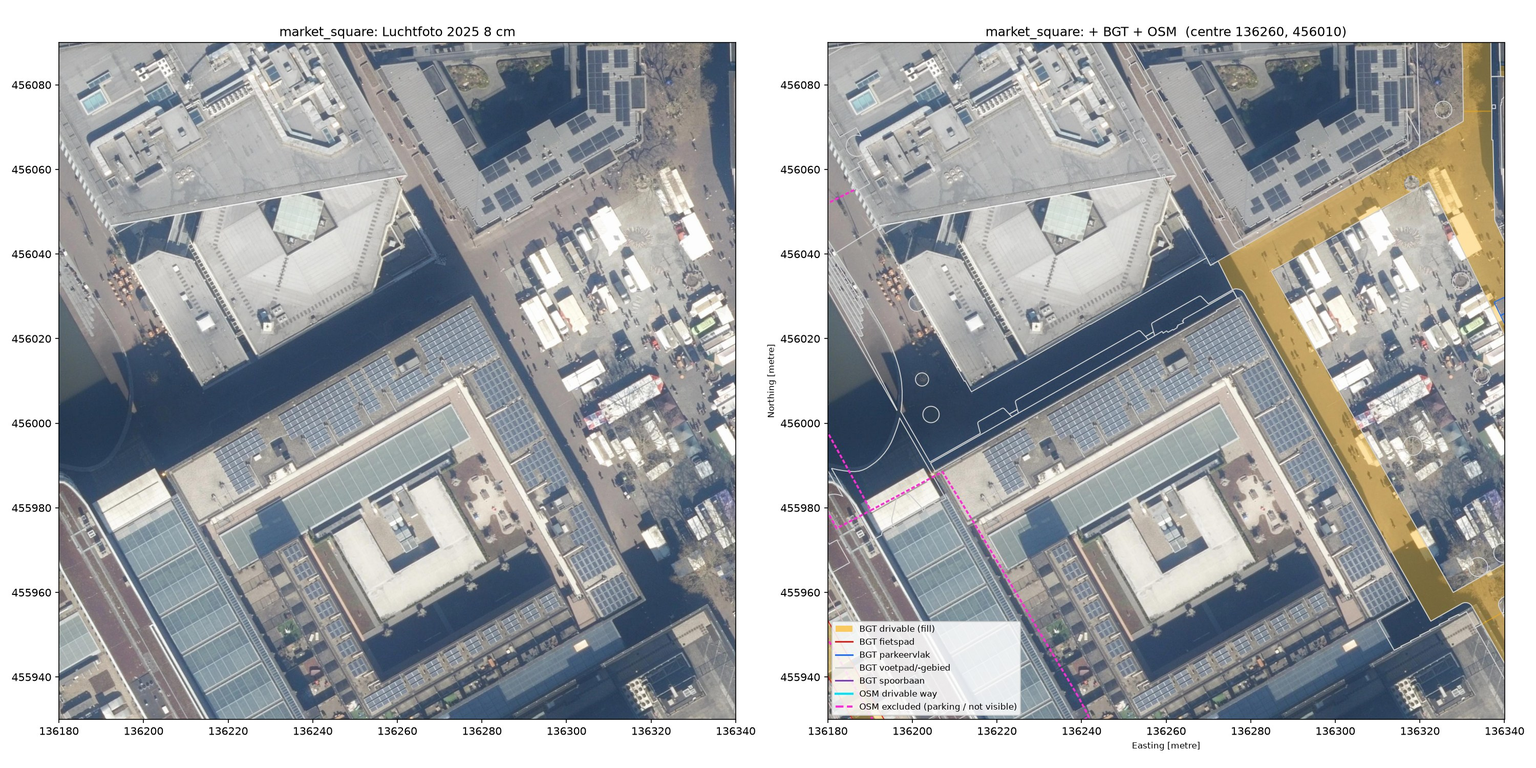
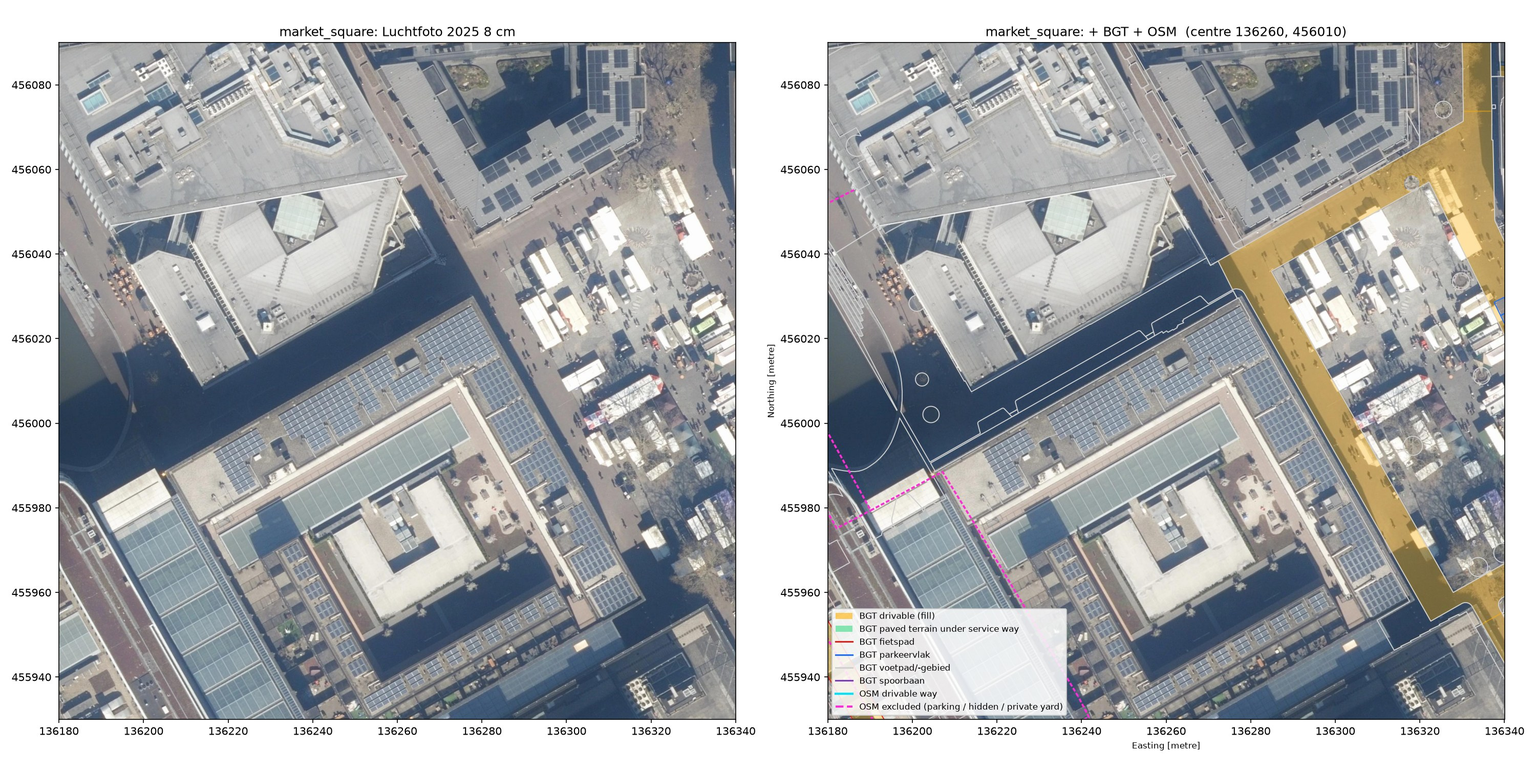
Fetch: Drop service roads in private yards, add paved terrain labels
Fetch BGT onbegroeidterreindeel. Service ways with more than half their
length on "erf" (whole yards whose road surface BGT does not map) are
excluded as private_yard. Paved terrain ("gesloten/open verharding") counts
as drivable where a kept service way runs through it (service_paved).

utrecht_centrum: 1,068 ways kept (161 service). Median share of
service-way length on a drivable label rose from 0.28 to 0.85; 21 service
ways remain under 20%, mostly on BGT voetpad and parkeervlak.

Changed region(s): [[0.527, 0.7667, 0.713, 0.9507]]

diff --git a/src/backbone/fetch.py b/src/backbone/fetch.py
@@ -20,6 +20,7 @@ from pathlib import Path
 
 import geopandas as gpd
 import numpy as np
+import pandas as pd
 import rasterio
 import requests
 from PIL import Image
@@ -146,6 +147,45 @@ def fetch_bgt(bbox: BBox, out_dir: Path, s: requests.Session) -> dict:
         "raw_file": raw_path.name,
         "raw_sha256": sha256(raw_path),  # GPKGs embed write times, so only raw is hashed
     }
+
+
+def fetch_bgt_terrain(bbox: BBox, out_dir: Path, s: requests.Session):
+    """Current, ground-level onbegroeidterreindeel (unvegetated terrain)."""
+    all_versions, raw_path = fetch_bgt_collection("onbegroeidterreindeel", bbox, out_dir, s)
+    cur = bgt_current(all_versions)
+    cur = cur[cur["relatieve_hoogteligging"] == 0].copy()
+    cur["paved"] = cur["fysiek_voorkomen"].isin(config.BGT_PAVED_TERRAIN)
+    info = {
+        "endpoint": f"{config.BGT_API_URL}/collections/onbegroeidterreindeel/items",
+        "license": config.BGT_LICENSE,
+        "fetched_versions": len(all_versions),
+        "current_ground_features": len(cur),
+        "fysiek_voorkomen_counts": cur["fysiek_voorkomen"].value_counts().to_dict(),
+        "raw_file": raw_path.name,
+        "raw_sha256": sha256(raw_path),
+    }
+    return cur, info
+
+
+def mark_service_paved(terrain: gpd.GeoDataFrame, ways: gpd.GeoDataFrame) -> pd.Series:
+    """True for paved terrain polygons that a kept OSM service way runs over
+    for at least SERVICE_PAVED_MIN_OVERLAP_M. Overlap is measured inside the
+    polygon shrunk by SERVICE_PAVED_EDGE_M, so a way running along the polygon's
+    edge (e.g. on the adjacent wegdeel) does not count."""
+    paved = terrain[terrain["paved"]]
+    svc = ways[ways["highway"] == "service"]
+    out = pd.Series(False, index=terrain.index)
+    if paved.empty or svc.empty:
+        return out
+    pairs = gpd.sjoin(paved[["geometry"]], svc[["geometry"]], predicate="intersects")
+    overlap = [
+        paved.geometry[i].buffer(-config.SERVICE_PAVED_EDGE_M).intersection(svc.geometry[j]).length
+        for i, j in zip(pairs.index, pairs["index_right"])
+    ]
+    pairs["overlap"] = overlap
+    per_poly = pairs.groupby(level=0)["overlap"].sum()
+    out[per_poly[per_poly >= config.SERVICE_PAVED_MIN_OVERLAP_M].index] = True
+    return out
 
 
 # --- Luchtfoto ---------------------------------------------------------------
@@ -328,7 +368,19 @@ def osm_to_gdf(osm: dict, bbox: BBox) -> gpd.GeoDataFrame:
     return gdf[gdf.intersects(box(*bbox.as_tuple()))].reset_index(drop=True)
 
 
-def fetch_osm(bbox: BBox, out_dir: Path, s: requests.Session) -> dict:
+def mark_private_yards(ways: gpd.GeoDataFrame, erf) -> gpd.GeoDataFrame:
+    """Add `erf_share` and the `private_yard` exclusion for service ways that
+    lie mostly on BGT `erf` (see config.OSM_SERVICE_MAX_ERF_SHARE)."""
+    ways = ways.copy()
+    ways["erf_share"] = (ways.geometry.intersection(erf).length / ways.length).round(3)
+    hit = (ways["highway"] == "service") & (ways["erf_share"] > config.OSM_SERVICE_MAX_ERF_SHARE)
+    ways.loc[hit, "exclude"] = ways.loc[hit, "exclude"].map(
+        lambda r: "private_yard" if r is None or pd.isna(r) else f"{r};private_yard"
+    )
+    return ways
+
+
+def fetch_osm(bbox: BBox, out_dir: Path, s: requests.Session, erf) -> tuple[gpd.GeoDataFrame, dict]:
     raw_path = out_dir / "osm_raw.json.gz"
     out_path = out_dir / "osm_drivable.gpkg"
     query = overpass_query(bbox)
@@ -341,14 +393,14 @@ def fetch_osm(bbox: BBox, out_dir: Path, s: requests.Session) -> dict:
         write_json_gz(osm, raw_path)
     with gzip.open(raw_path, "rt") as f:
         osm = json.load(f)
-    gdf = osm_to_gdf(osm, bbox)
+    gdf = mark_private_yards(osm_to_gdf(osm, bbox), erf)
     kept, excluded = gdf[gdf["exclude"].isna()], gdf[gdf["exclude"].notna()]
     # Derived files are always rebuilt from the cached raw download, so rule
     # changes take effect without refetching.
     out_path.unlink(missing_ok=True)
     kept.to_file(out_path, layer="ways", driver="GPKG")
     excluded.to_file(out_path, layer="excluded", driver="GPKG")
-    return {
+    return kept, {
         "endpoint": config.OVERPASS_URL,
         "query": query,
         "license": config.OSM_LICENSE,
@@ -382,8 +434,16 @@ def run(name: str, bbox: BBox, force: bool = False) -> Path:
     }
     log.info("BGT ...")
     manifest["bgt"] = fetch_bgt(bbox, out_dir, s)
+    log.info("BGT terrain ...")
+    terrain, manifest["bgt_terrain"] = fetch_bgt_terrain(bbox, out_dir, s)
     log.info("OSM ...")
-    manifest["osm"] = fetch_osm(bbox, out_dir, s)
+    erf = terrain[terrain["fysiek_voorkomen"] == "erf"].union_all()
+    ways, manifest["osm"] = fetch_osm(bbox, out_dir, s, erf)
+    terrain["service_paved"] = mark_service_paved(terrain, ways)
+    manifest["bgt_terrain"]["service_paved_features"] = int(terrain["service_paved"].sum())
+    terrain_path = out_dir / "bgt_onbegroeidterreindeel.gpkg"
+    terrain_path.unlink(missing_ok=True)
+    terrain.to_file(terrain_path, layer="onbegroeidterreindeel", driver="GPKG")
     manifest["luchtfoto"] = {}
     for key in config.LUCHTFOTO_LAYERS:
         log.info("Luchtfoto %s ...", key)

diff --git a/src/backbone/qa.py b/src/backbone/qa.py
@@ -19,6 +19,7 @@ import matplotlib
 matplotlib.use("Agg")
 import matplotlib.pyplot as plt  # noqa: E402
 import numpy as np  # noqa: E402
+import pandas as pd  # noqa: E402
 import rasterio  # noqa: E402
 from matplotlib.lines import Line2D  # noqa: E402
 from matplotlib.patches import Patch  # noqa: E402
@@ -35,6 +36,7 @@ REPORTS_DIR = Path("reports/phase1")
 
 # BGT styling: drivable classes filled, others outlined.
 DRIVABLE_STYLE = {"facecolor": "#ffb000", "alpha": 0.35}
+SERVICE_PAVED_STYLE = {"facecolor": "#3ddc84", "alpha": 0.35}
 OUTLINE_COLORS = {
     "fietspad": "#e0201b",
     "parkeervlak": "#1f6fff",
@@ -51,6 +53,12 @@ def load(area_dir: Path):
     bgt = gpd.read_file(area_dir / "bgt_wegdeel.gpkg", layer="wegdeel")
     osm = gpd.read_file(area_dir / "osm_drivable.gpkg", layer="ways")
     excluded = gpd.read_file(area_dir / "osm_drivable.gpkg", layer="excluded")
+    terrain = gpd.read_file(area_dir / "bgt_onbegroeidterreindeel.gpkg")
+    # Paved terrain under a service way is drivable; draw it with wegdeel.
+    bgt = pd.concat(
+        [bgt, terrain[terrain["service_paved"]].assign(functie="service_paved", drivable=False)],
+        ignore_index=True,
+    )
     return bgt, osm, excluded
 
 
@@ -70,6 +78,9 @@ def read_rgb(path: Path, bbox: BBox, max_px: int | None = None):
 def draw_layers(ax, bgt, osm, excluded, lw_scale=1.0):
     drv = bgt[bgt["drivable"]]
     drv.plot(ax=ax, linewidth=0.6 * lw_scale, edgecolor="#ffb000", **DRIVABLE_STYLE)
+    sp = bgt[bgt["functie"] == "service_paved"]
+    if len(sp):
+        sp.plot(ax=ax, linewidth=0.6 * lw_scale, edgecolor="#3ddc84", **SERVICE_PAVED_STYLE)
     for functie, color in OUTLINE_COLORS.items():
         sub = bgt[bgt["functie"] == functie]
         if len(sub):
@@ -82,12 +93,13 @@ def draw_layers(ax, bgt, osm, excluded, lw_scale=1.0):
 def legend(ax):
     handles = [
         Patch(facecolor=DRIVABLE_STYLE["facecolor"], alpha=0.6, label="BGT drivable (fill)"),
+        Patch(facecolor=SERVICE_PAVED_STYLE["facecolor"], alpha=0.6, label="BGT paved terrain under service way"),
         Line2D([], [], color=OUTLINE_COLORS["fietspad"], label="BGT fietspad"),
         Line2D([], [], color=OUTLINE_COLORS["parkeervlak"], label="BGT parkeervlak"),
         Line2D([], [], color=OUTLINE_COLORS["voetpad"], label="BGT voetpad/-gebied"),
         Line2D([], [], color=OUTLINE_COLORS["spoorbaan"], label="BGT spoorbaan"),
         Line2D([], [], color=OSM_COLOR, lw=2, label="OSM drivable way"),
-        Line2D([], [], color=OSM_EXCLUDED_COLOR, lw=2, ls="--", label="OSM excluded (parking / not visible)"),
+        Line2D([], [], color=OSM_EXCLUDED_COLOR, lw=2, ls="--", label="OSM excluded (parking / hidden / private yard)"),
     ]
     ax.legend(handles=handles, loc="lower left", fontsize=8, framealpha=0.85)
 

diff --git a/tests/test_sources.py b/tests/test_sources.py
@@ -1,6 +1,7 @@
 import re
 
 import geopandas as gpd
+import pandas as pd
 import pytest
 from shapely.geometry import box
 
@@ -141,3 +142,52 @@ def test_write_json_gz_is_byte_reproducible(tmp_path):
 )
 def test_exclusion_reasons(tags, expected):
     assert exclusion_reasons(tags) == expected
+
+
+def _ways(*rows):
+    from shapely.geometry import LineString
+
+    return gpd.GeoDataFrame(
+        [{"osm_id": i, "highway": h, "exclude": ex, "geometry": LineString(coords)} for i, h, ex, coords in rows],
+        geometry="geometry",
+        crs=28992,
+    )
+
+
+def test_mark_private_yards():
+    from backbone.fetch import mark_private_yards
+
+    erf = box(0, 0, 10, 10)
+    ways = _ways(
+        (1, "service", None, [(1, 5), (9, 5)]),  # fully on erf
+        (2, "service", None, [(5, 5), (15, 5)]),  # exactly half: kept
+        (3, "service", None, [(4, 5), (14, 5)]),  # 60% on erf
+        (4, "residential", None, [(1, 5), (9, 5)]),  # rule is service-only
+        (5, "service", "parking", [(1, 5), (9, 5)]),
+        (6, "service", None, [(20, 5), (30, 5)]),
+    )
+    out = mark_private_yards(ways, erf).set_index("osm_id")
+    assert out.loc[1, "exclude"] == "private_yard"
+    assert pd.isna(out.loc[2, "exclude"])
+    assert out.loc[3, "exclude"] == "private_yard"
+    assert pd.isna(out.loc[4, "exclude"])
+    assert out.loc[5, "exclude"] == "parking;private_yard"
+    assert pd.isna(out.loc[6, "exclude"])
+    assert out.loc[3, "erf_share"] == pytest.approx(0.6)
+
+
+def test_mark_service_paved():
+    from backbone.fetch import mark_service_paved
+
+    terrain = gpd.GeoDataFrame(
+        {"paved": [True, True, True, False]},
+        geometry=[box(0, 0, 10, 10), box(20, 0, 30, 10), box(40, 0, 50, 10), box(60, 0, 70, 10)],
+        crs=28992,
+    )
+    ways = _ways(
+        (1, "service", None, [(-5, 5), (15, 5)]),  # crosses polygon 0
+        (2, "residential", None, [(25, -5), (25, 15)]),  # polygon 1: not a service way
+        (3, "service", None, [(40, -5), (40, 15)]),  # runs along polygon 2's edge only
+        (4, "service", None, [(65, -5), (65, 15)]),  # polygon 3 is not paved
+    )
+    assert mark_service_paved(terrain, ways).tolist() == [True, False, False, False]

diff --git a/src/backbone/config.py b/src/backbone/config.py
@@ -34,6 +34,20 @@ BGT_DRIVABLE_FUNCTIES = frozenset(
     }
 )
 
+# Paved classes (`fysiek_voorkomen`) of the onbegroeidterreindeel layer. They
+# count as drivable only where a kept OSM service way runs over them; elsewhere
+# they are plazas, schoolyards, etc. (decision 2026-10-12). `erf` is a whole
+# yard (paving, gardens and trees, "not surveyed in more detail") and is never
+# drivable.
+BGT_PAVED_TERRAIN = frozenset({"gesloten verharding", "open verharding"})
+# A service way is dropped when more than this share of its length lies on
+# `erf`: private yards whose road surface BGT does not map (decision 2026-10-12).
+OSM_SERVICE_MAX_ERF_SHARE = 0.5
+# Minimum length (m) of a service way inside a paved terrain polygon for that
+# polygon to count as drivable; avoids ways that only clip a corner or edge.
+SERVICE_PAVED_MIN_OVERLAP_M = 1.0
+SERVICE_PAVED_EDGE_M = 0.5
+
 # --- Luchtfoto -------------------------------------------------------------
 LUCHTFOTO_WMS_URL = "https://service.pdok.nl/hwh/luchtfotorgb/wms/v1_0"
 LUCHTFOTO_LICENSE = "CC BY 4.0, attribution: Beeldmateriaal.nl"

diff --git a/reports/phase1/README.md b/reports/phase1/README.md
@@ -17,7 +17,8 @@ uv run --group dev pytest
 | BGT wegdeel | OGC API Features `https://api.pdok.nl/kadaster/bgt/ogc/v1/collections/wegdeel/items`, native EPSG:28992 | current versions only (see below) | CC0 1.0 |
 | Luchtfoto 8 cm | WMS `https://service.pdok.nl/hwh/luchtfotorgb/wms/v1_0` | `2025_orthoHR` | CC BY 4.0, credit Beeldmateriaal.nl |
 | Luchtfoto 25 cm | same | `2025_ortho25` | CC BY 4.0, credit Beeldmateriaal.nl |
-| OSM | Overpass `https://overpass-api.de/api/interpreter` | drivable `highway` values from SPEC, no `track`, no `area=yes`, no parking, no roads hidden from above (see below) | ODbL 1.0 |
+| BGT onbegroeidterreindeel | same API, collection `onbegroeidterreindeel` | current, ground level; paved classes used under service ways (see below) | CC0 1.0 |
+| OSM | Overpass `https://overpass-api.de/api/interpreter` | drivable `highway` values from SPEC, no `track`, no `area=yes`, no parking, no roads hidden from above, no service roads in private yards (see below) | ODbL 1.0 |
 
 BGT `functie` values come from the BGT catalogue (FunctieWeg codelist,
 https://docs.geostandaarden.nl/imgeo/catalogus/bgt/). Drivable = `rijbaan *`,
@@ -29,8 +30,9 @@ https://docs.geostandaarden.nl/imgeo/catalogus/bgt/). Drivable = `rijbaan *`,
 |---|---|
 | BGT versions returned by API | 26,426 |
 | BGT current objects | 10,260 (2,861 drivable) |
-| OSM drivable ways kept | 1,136 (638 residential, 229 service, 136 unclassified, 93 tertiary, 40 secondary) |
-| OSM ways excluded | 185: 121 parking (5.1 km), 54 not visible (2.0 km), 10 both |
+| OSM drivable ways kept | 1,068 (638 residential, 161 service, 136 unclassified, 93 tertiary, 40 secondary) |
+| OSM ways excluded | 253 (10.5 km); reasons can combine: parking 131, not visible 64, private yard 134 (68 of them for that reason only) |
+| BGT paved terrain under a service way | 11 polygons, 9,700 m² |
 | Imagery 8 cm | 25,000 x 25,000 px, 159 MB, 0.07% blank |
 | Imagery 25 cm | 8,000 x 8,000 px, 25 MB, 0.02% blank |
 
@@ -52,10 +54,27 @@ magenta in the overlays.
   classes; 6 of the 64 are residential or unclassified, e.g. Catharijnesingel
   under Hoog Catharijne. A negative `layer` alone does not exclude: in this area
   those are open garage ramps.
+- `private_yard`: service ways with more than 50% of their length on BGT
+  onbegroeidterreindeel `erf` (whole yards; BGT does not map the road surface
+  there). The erf share is bimodal (151 service ways near 0%, 59 above 70%),
+  so the threshold is not sensitive. `access=private` was not used: 41 private
+  service ways lie on mapped road surface.
+
+**Paved terrain under service ways** (`fetch.mark_service_paved`): BGT
+onbegroeidterreindeel polygons with `fysiek_voorkomen` `gesloten verharding` or
+`open verharding` count as drivable (`service_paved` in
+`bgt_onbegroeidterreindeel.gpkg`, green in the overlays) when a kept OSM service
+way runs at least 1 m through them, measured 0.5 m inside the polygon edge so a
+way along the edge does not count. Elsewhere these classes are plazas and
+schoolyards and are not drivable.
 
 **OSM vs BGT:** share of each OSM way's length that lies inside BGT drivable polygons
 (median): residential, secondary, tertiary, unclassified 1.00 (mean 0.92 to 0.96);
-service 0.28 (was 0.22 before the exclusions).
+service 0.85 against wegdeel drivable plus paved terrain (0.22 before any of
+the service rules; 75% of the kept service length is covered). 21 of 161 kept
+service ways are still under 20% covered; they lie mostly on `voetpad` (55%)
+and `parkeervlak` (19%), e.g. brick paths used by delivery vehicles. Phase 3
+should flag these as "no polygon found" rather than filter them here.
 
 **By eye:** `overview.jpg` and the three 8 cm crops (`crop_*.jpg`) show BGT
 kerbs on the visible kerbs and OSM centrelines inside the carriageways.
@@ -95,6 +114,9 @@ kerbs on the visible kerbs and OSM centrelines inside the carriageways.
    cannot be a road label. `gesloten verharding` (closed paving: asphalt,
    concrete) and `open verharding` (bricks, tiles) follow the paved surface,
    e.g. the service road along the rail yard.
+
+   Resolution (2026-10-12): drop service ways mostly on `erf`, and use the
+   paved classes only under service ways (see OSM exclusions above).
 4. **BGT keeps covered roads at ground level.** The carriageway under
    Hoog Catharijne is `rijbaan lokale weg` with `relatieve_hoogteligging = 0`,
    although a building covers it. Filtering BGT by level will not remove it;
